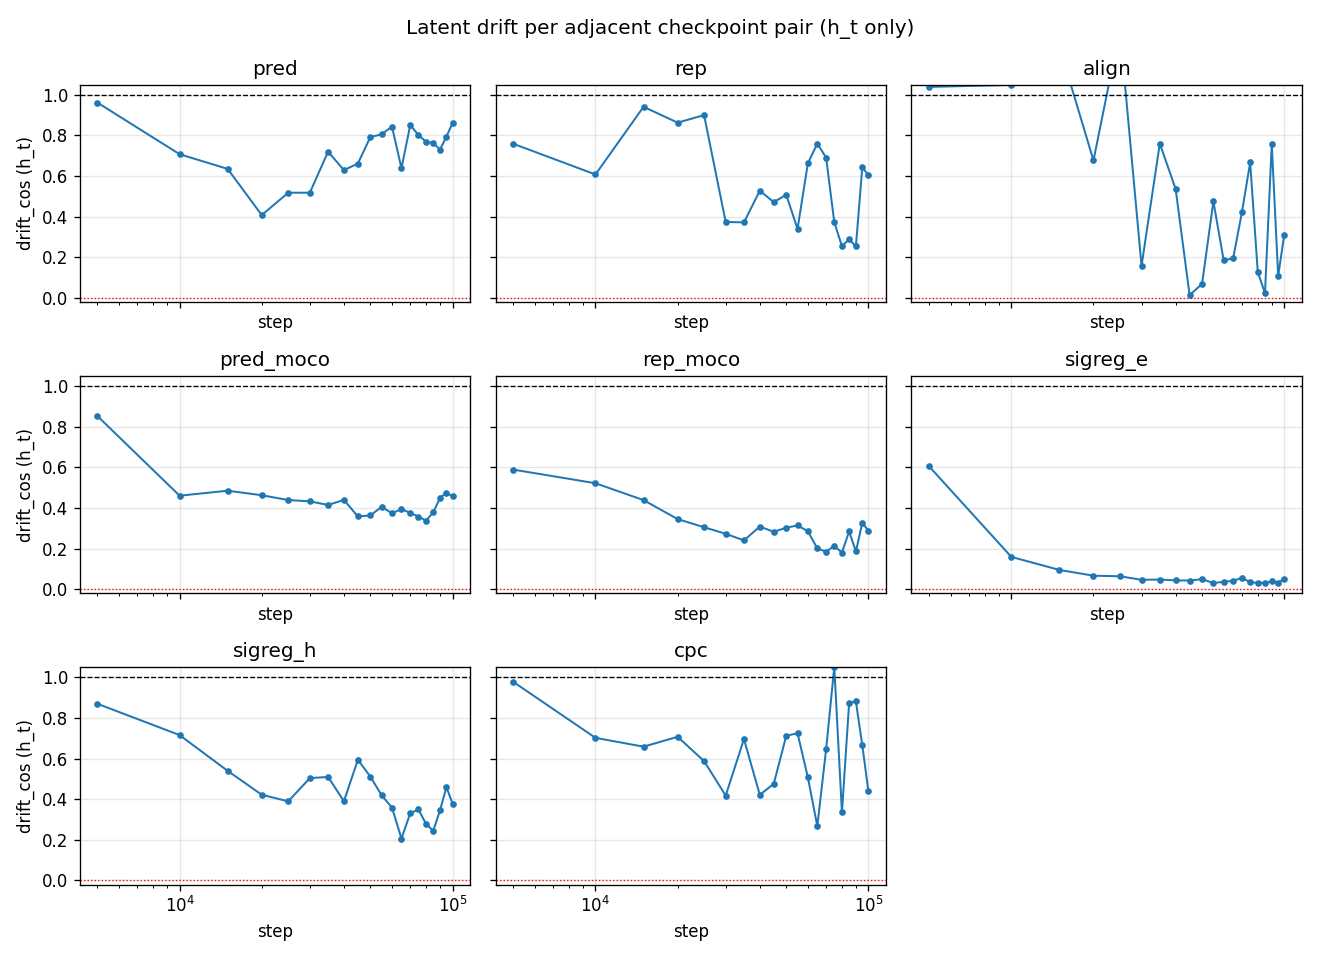
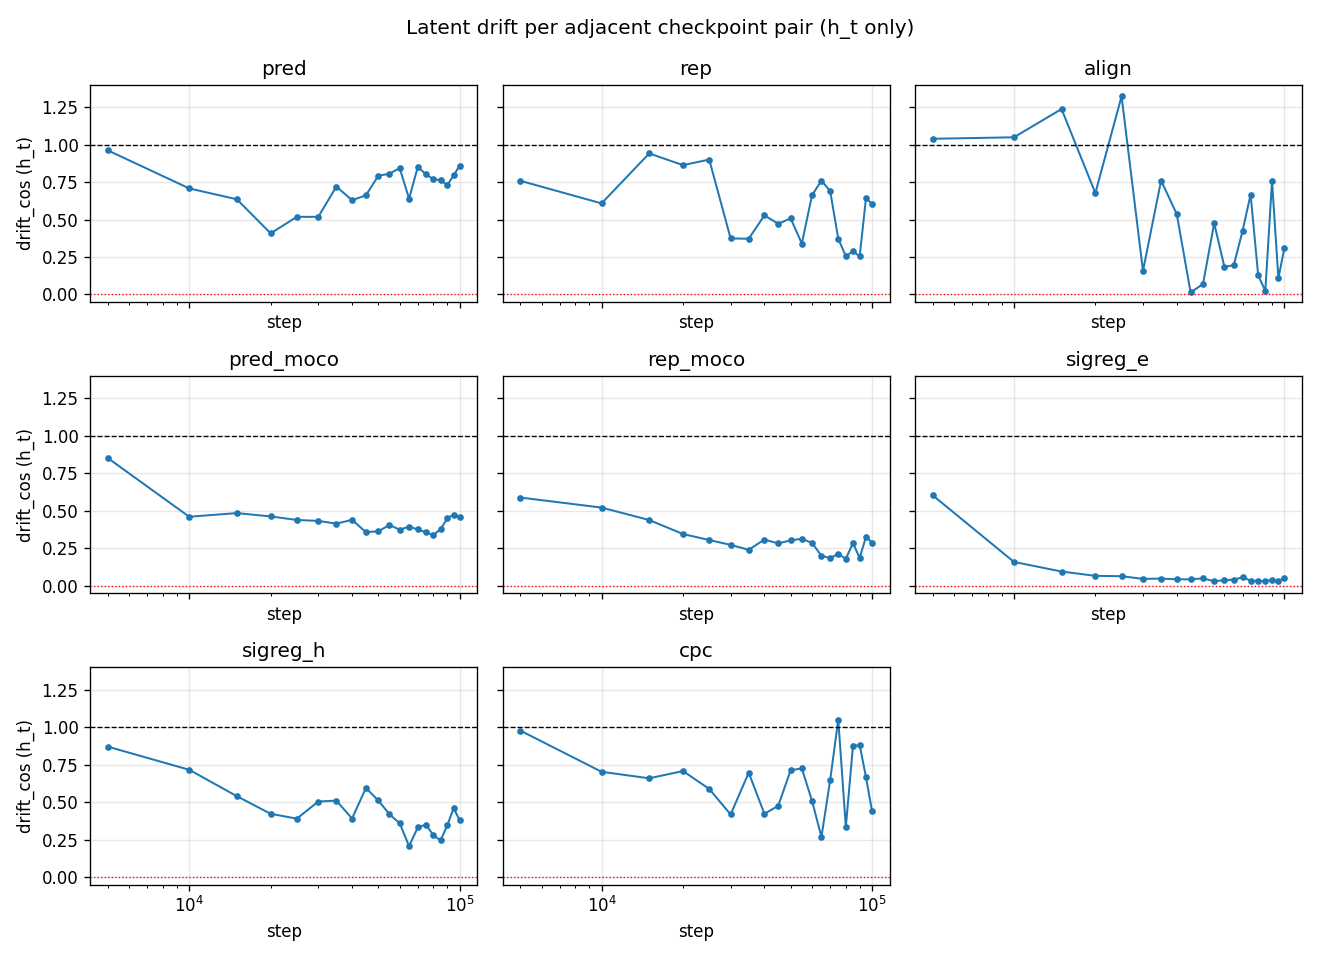
report(#382): v3f — extend headline y-axis to 1.40 (was clipping drift > 1.05)

diff --git a/experiments/2026-07-28_loss_term_isolation/scripts/make_latent_movement_per_arm.py b/experiments/2026-07-28_loss_term_isolation/scripts/make_latent_movement_per_arm.py
@@ -85,7 +85,7 @@ def main():
                    label="drift = 0 (no drift)")
         ax.axhline(1.0, color="black", linestyle="--", linewidth=0.8,
                    label="drift = 1 (ceiling)")
-        ax.set_ylim(bottom=-0.02, top=1.05)
+        ax.set_ylim(bottom=-0.05, top=1.40)
         ax.set_title(arm)
         ax.set_xscale("log")
         ax.set_xlabel("step")
